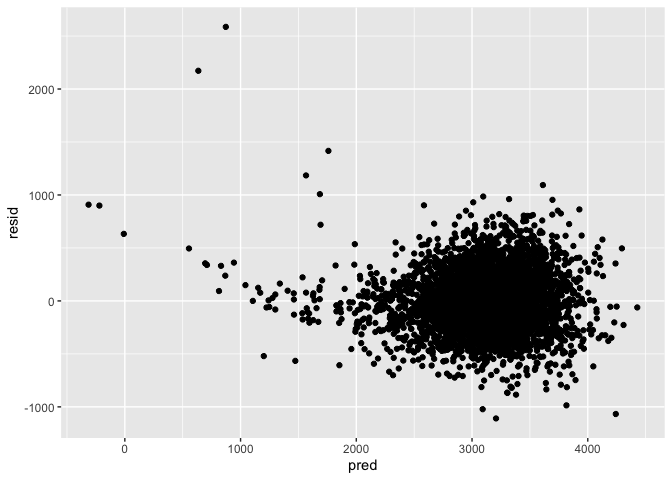
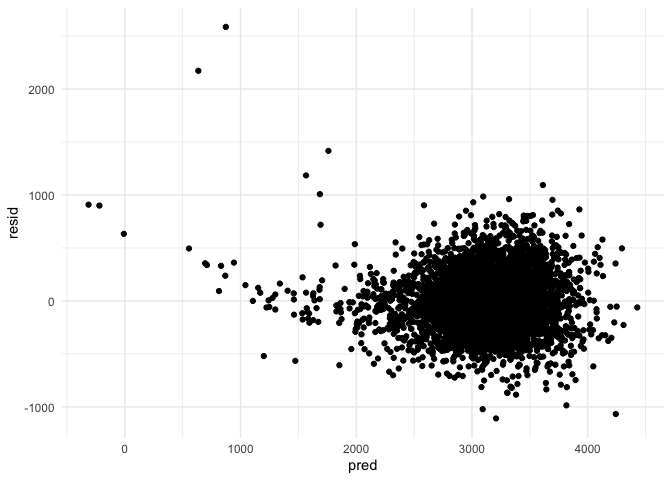
95% CI in problem 2

diff --git a/HW6.md b/HW6.md
@@ -49,7 +49,8 @@ bw_plot = modelr::add_predictions(bw_plot, birthweight_base_model)
 
 bw_plot %>% 
   ggplot(aes(x = pred, y = resid)) + 
-  geom_point() 
+  geom_point() +
+  theme_minimal()
 ```
 
 ![](HW6_files/figure-gfm/unnamed-chunk-3-1.png)<!-- -->
@@ -93,7 +94,9 @@ cv_df %>%
     values_to = "rmse",
     names_prefix = "rmse_") %>% 
   mutate(model = fct_inorder(model)) %>% 
-  ggplot(aes(x = model, y = rmse)) + geom_violin()
+  ggplot(aes(x = model, y = rmse)) + 
+    geom_violin() +
+    theme_minimal()
 ```
 
 ![](HW6_files/figure-gfm/unnamed-chunk-5-1.png)<!-- -->
@@ -203,4 +206,7 @@ log_plot + r2_plot
 
 The distributions of both of the plots above appears to be normal. The
 median of the log(β0∗β1) value is 2.01, and the mean is 2.01. The median
-of the r2 value is 0.91, and the mean is 0.91.
+of the r^2 value is 0.91, and the mean is 0.91.
+
+The 95% confidence interval of log(β0∗β1) is (1.96, 2.06). The 95%
+confidence interval of r^2 is (0.89, 0.93).
